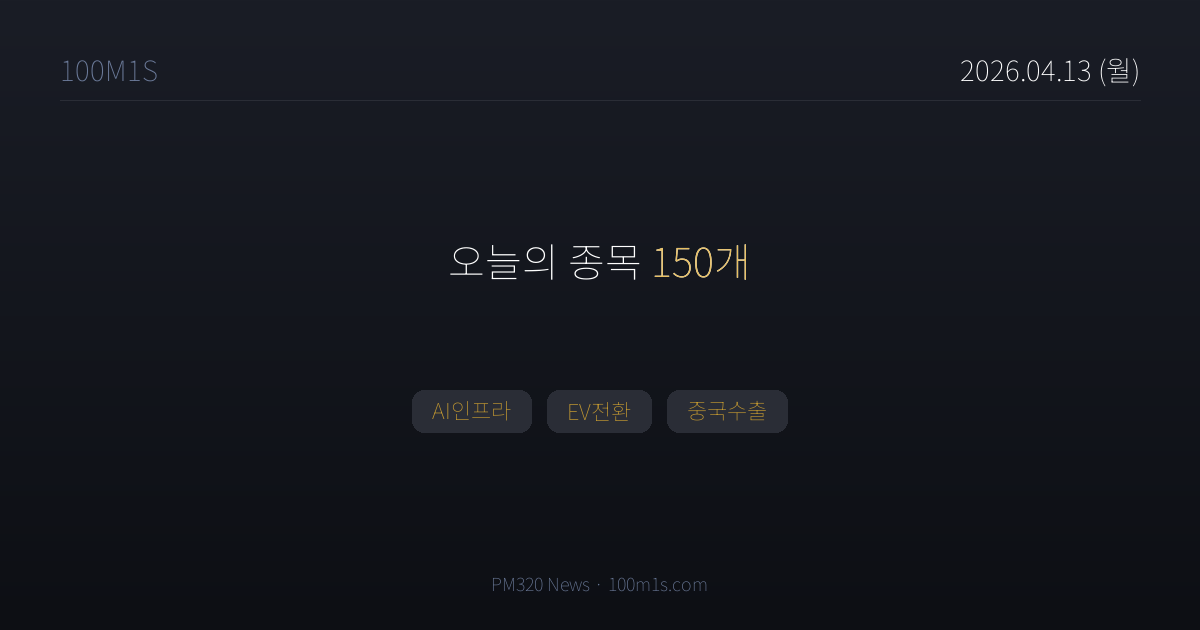
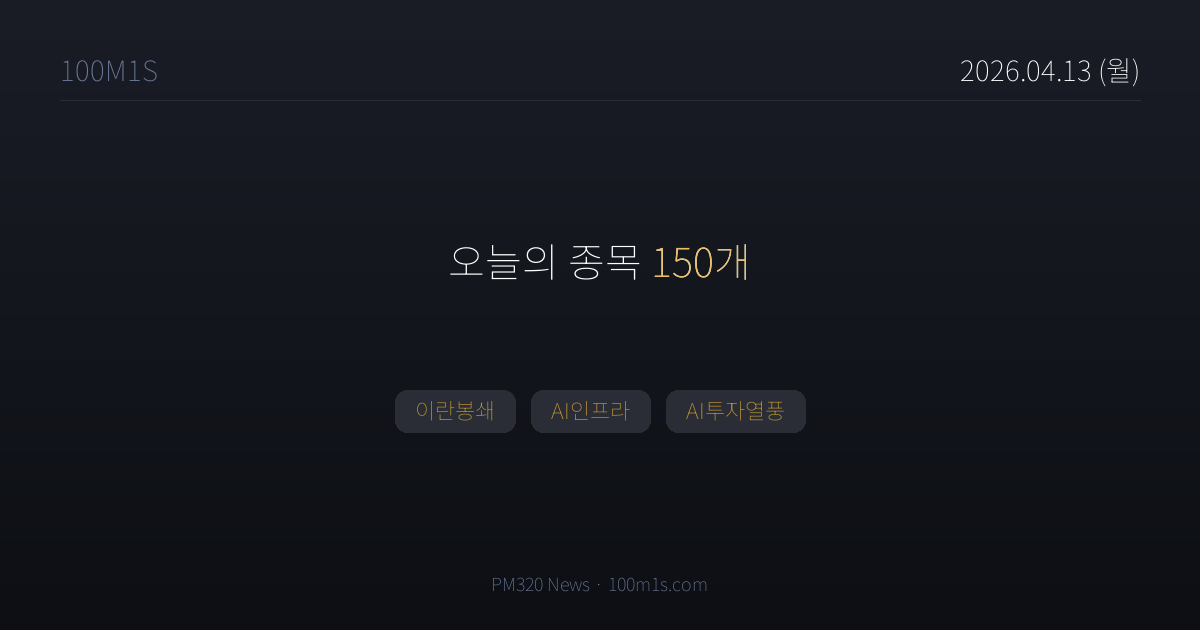
chore(news): 2026-04-13T12:23 pipeline

Changed region(s): [[0.3083, 0.6032, 0.5242, 0.6937], [0.555, 0.6032, 0.6783, 0.6937]]

diff --git a/news/2026-04-13.html b/news/2026-04-13.html
@@ -4,7 +4,7 @@
 <meta charset="UTF-8">
 <title>4월 13일 (월) 뉴스 — 100M1S</title>
 <meta property="og:title" content="4월 13일 (월) · 종목 150개">
-<meta property="og:description" content="AI인프라, EV전환, 중국수출">
+<meta property="og:description" content="이란봉쇄, AI인프라, AI투자열풍">
 <meta property="og:image" content="https://100m1s.com/og/2026-04-13.png">
 <meta property="og:image:width" content="1200">
 <meta property="og:image:height" content="630">
